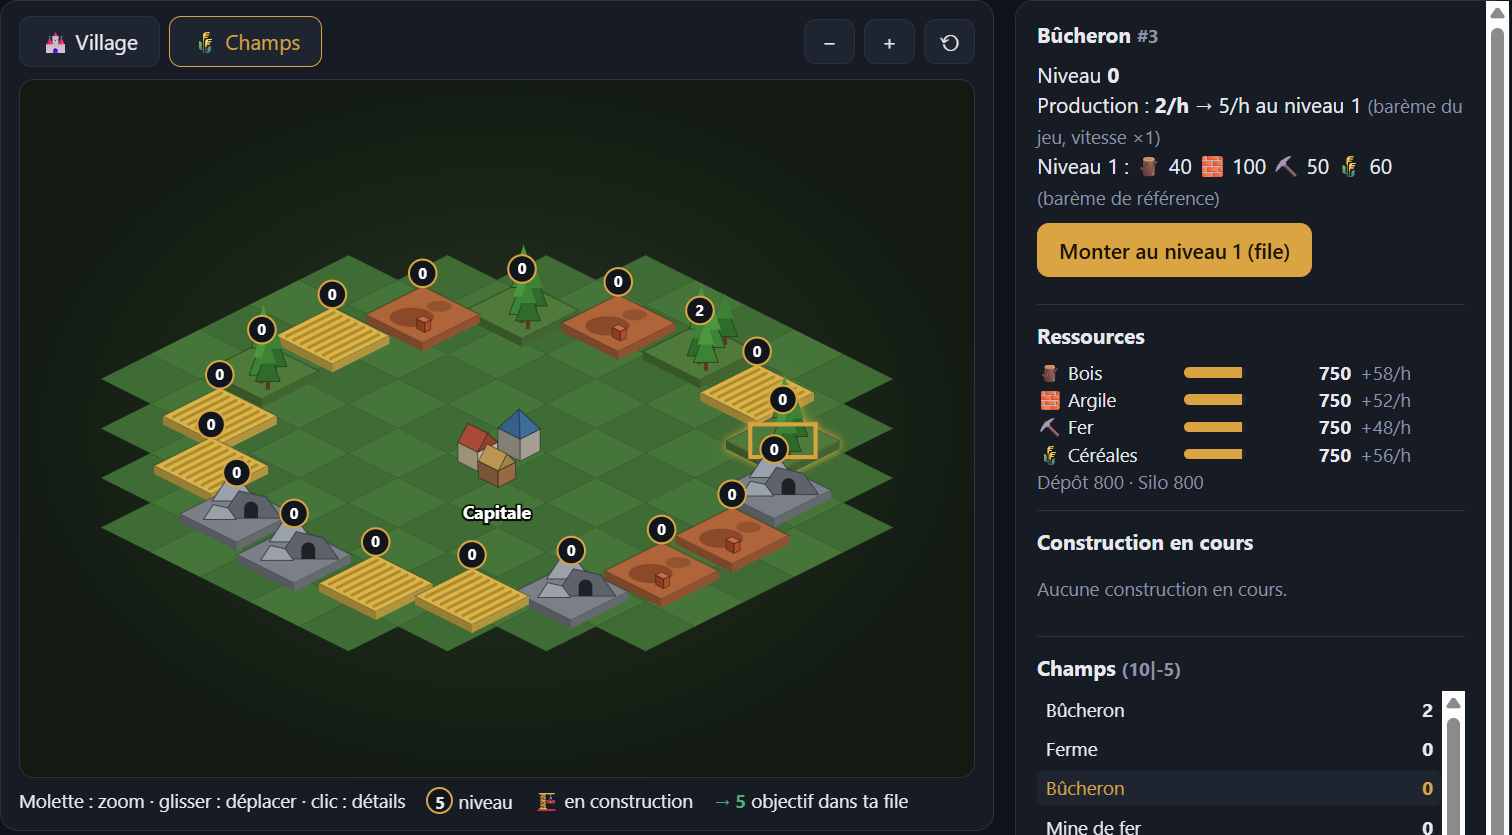
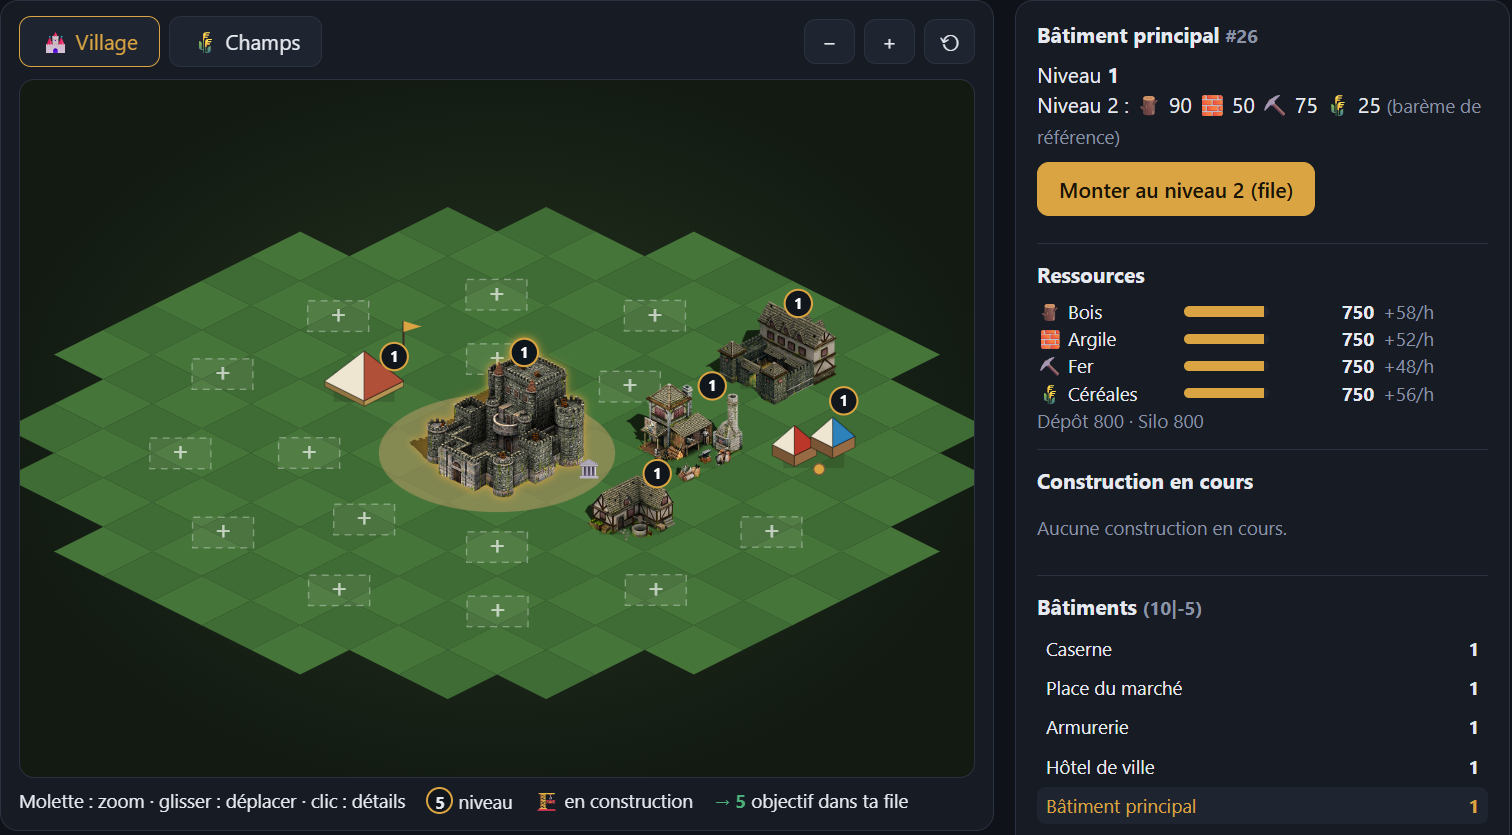
Captures de la carte illustrée et crédits des illustrations

diff --git a/README.md b/README.md
@@ -29,7 +29,9 @@ Une licence est nécessaire pour utiliser le bot : voir [Obtenir une licence](#-
 | 🛡 **Risque de ban** | Un badge te prévient dès qu'un réglage augmente le risque |
 | 🎮 **Jeu en direct** | Le navigateur du bot affiché dans l'appli : tu peux reprendre la main à tout moment |
 
-![Carte isométrique des champs de ressources](images/villages-3d.png)
+![Vue isométrique du village](images/villages-3d.png)
+
+![Vue isométrique des champs de ressources](images/champs-3d.png)
 
 ## 💻 Installation
 
@@ -67,3 +69,5 @@ Télécharge la nouvelle version et installe-la par-dessus l'ancienne : tes comp
 Les règles de Travian interdisent les programmes d'automatisation : **utiliser Legatus peut entraîner le bannissement de ton compte**. Tu l'utilises sous ta seule responsabilité. Legatus est un outil indépendant, sans lien avec Travian Games GmbH ; « Travian » est une marque de son propriétaire.
 
 Voir le [contrat d'utilisation](LICENCE.txt).
+
+Illustrations des bâtiments : « feudalwars » sur [OpenGameArt](https://opengameart.org/content/isometric-25d-medieval-set), domaine public (CC0).
